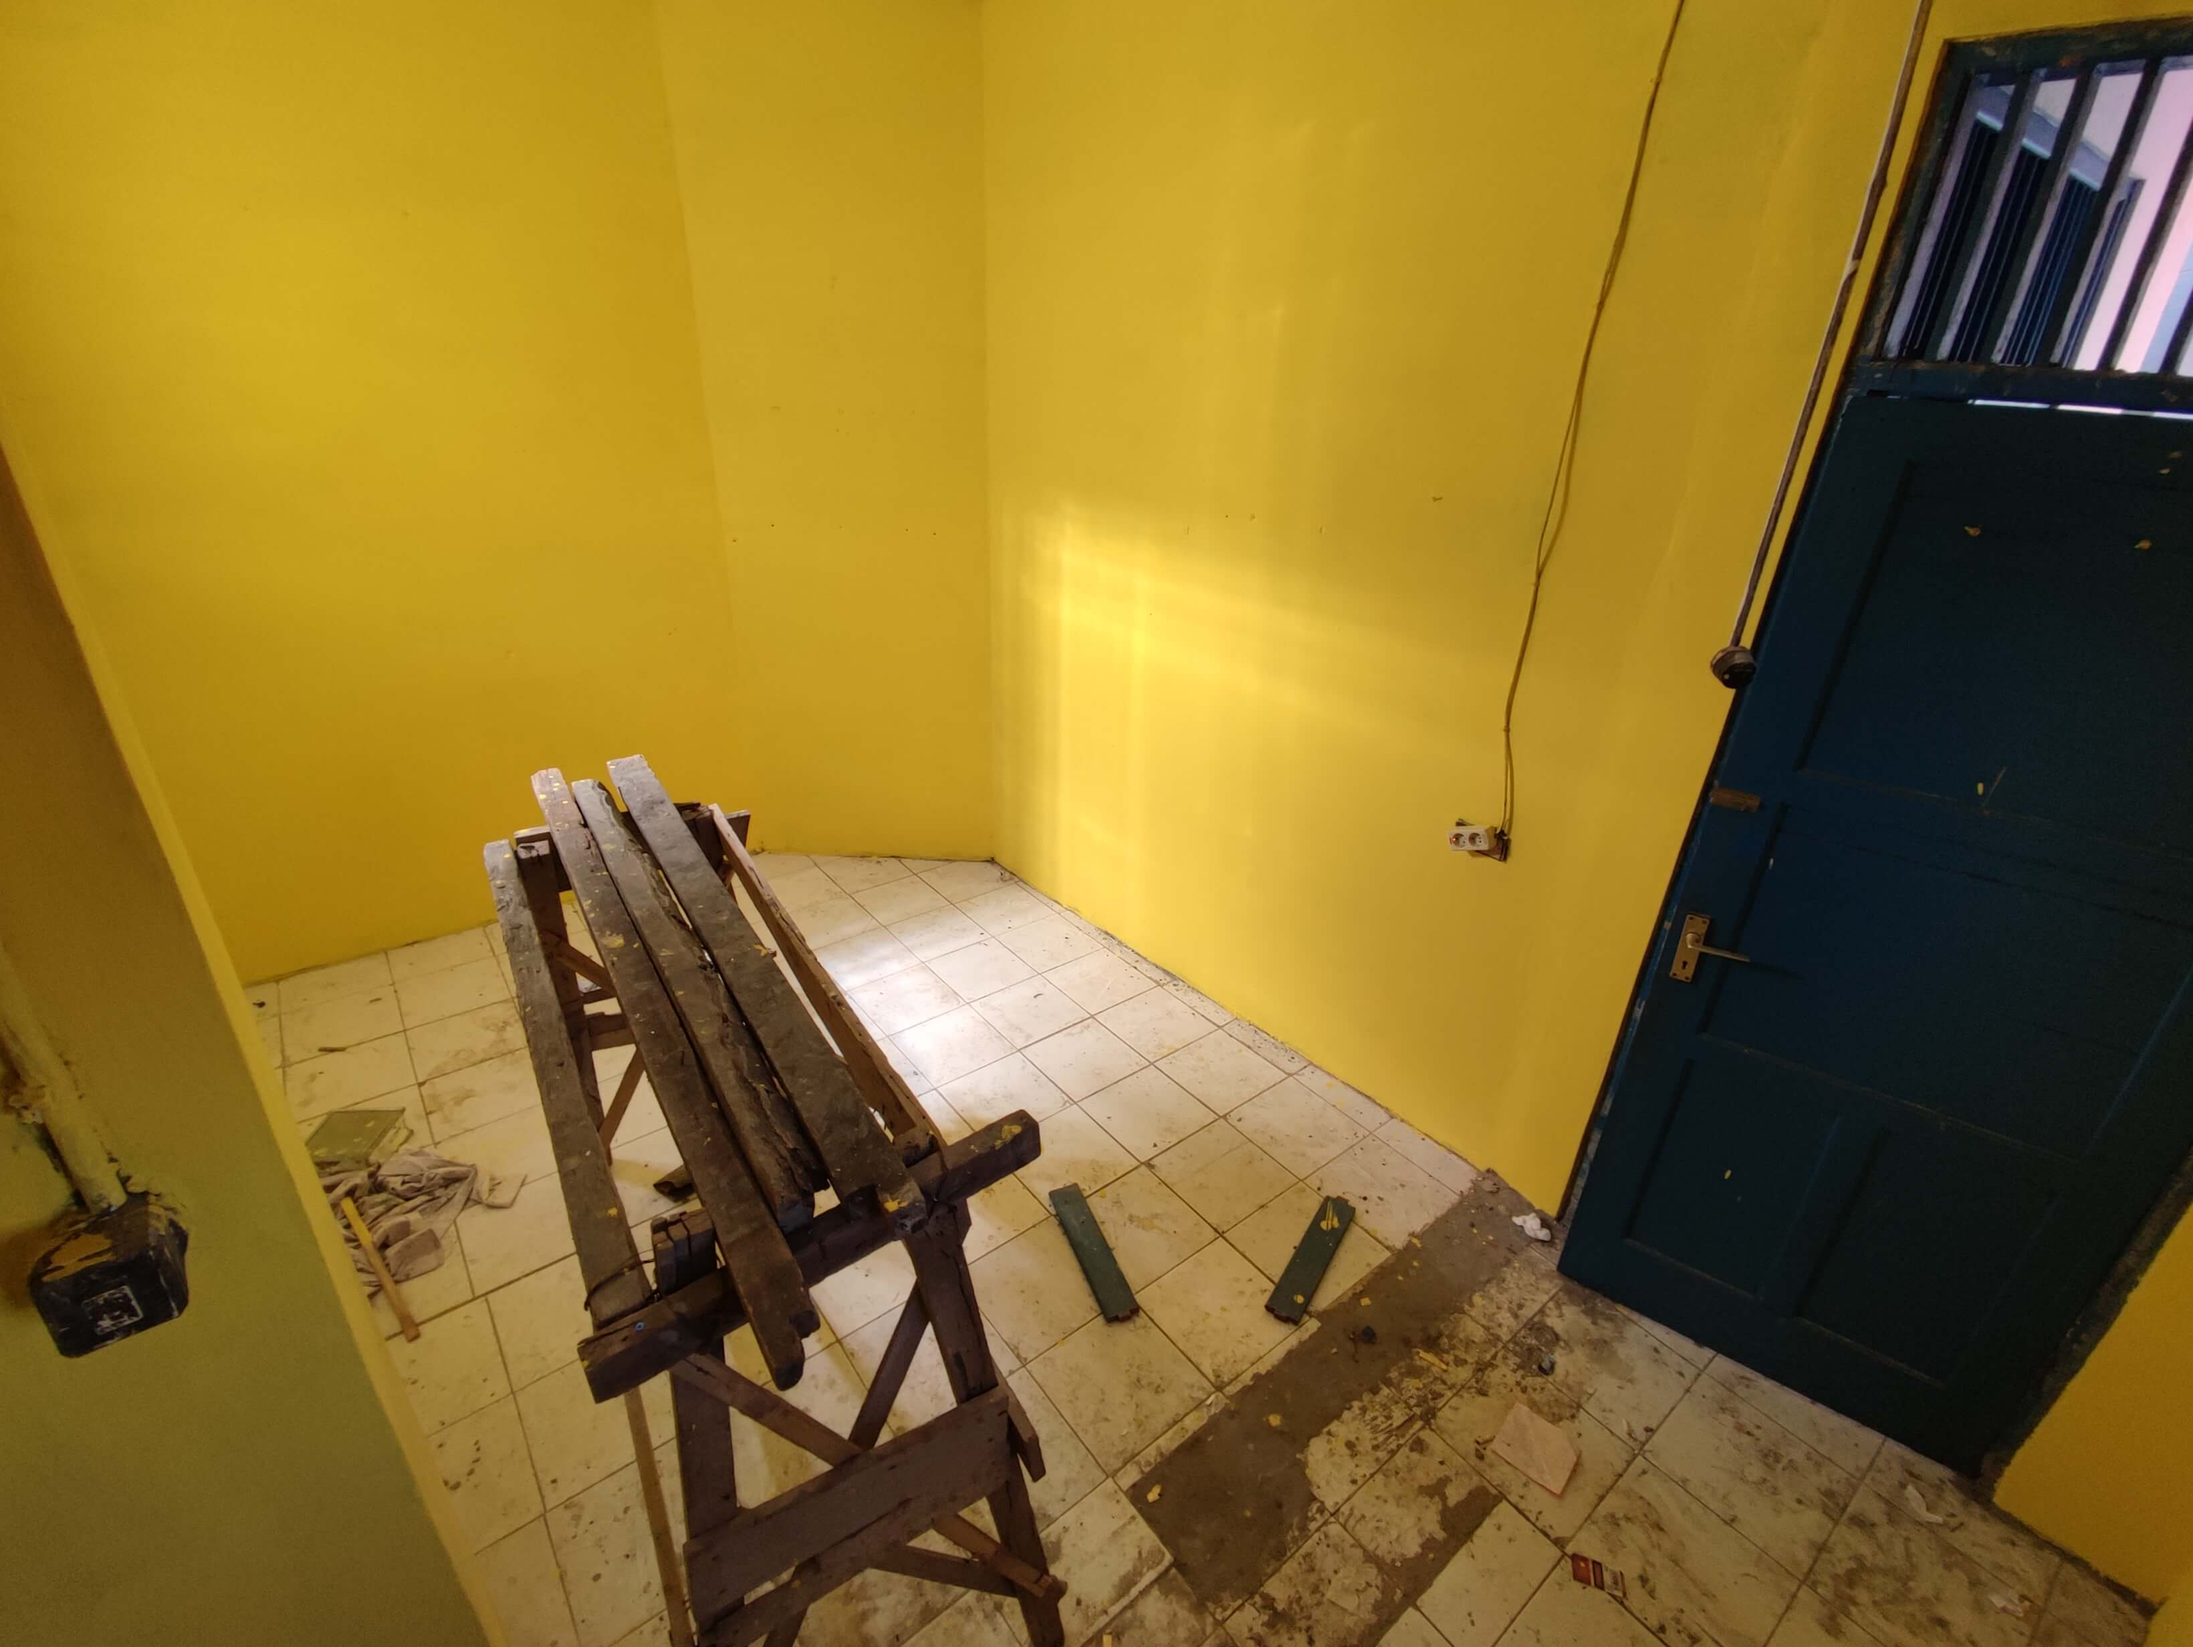
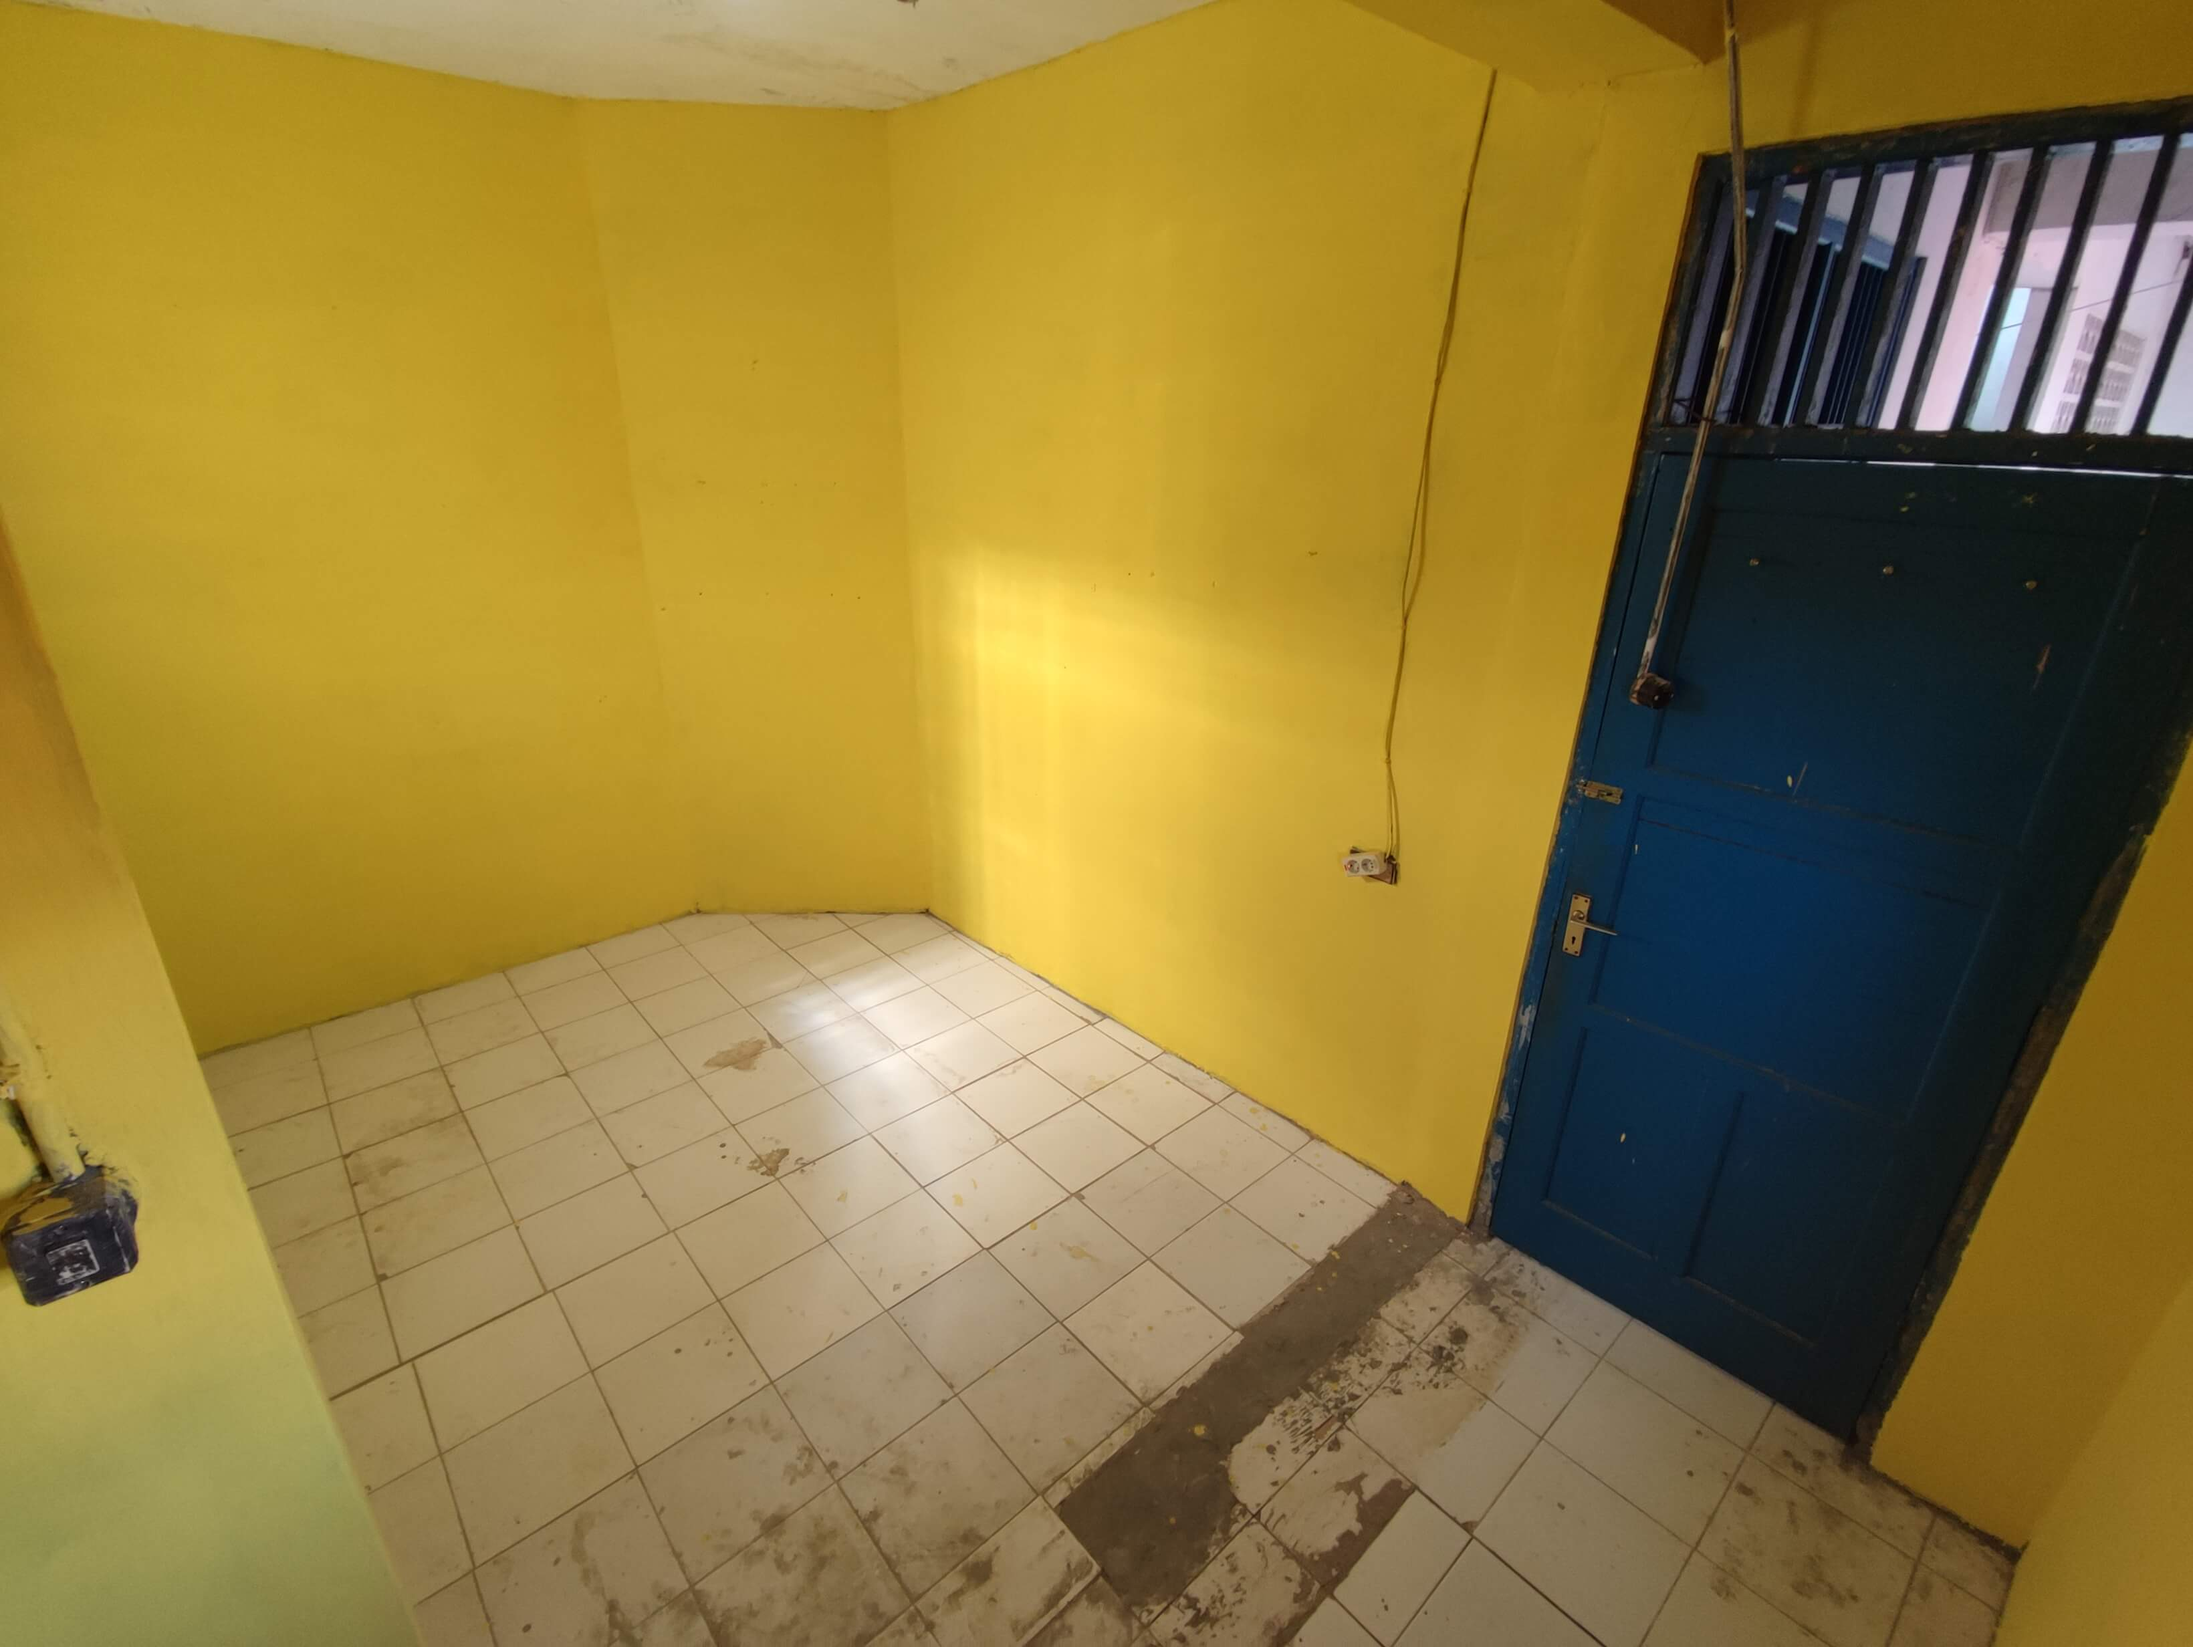
update B1, add images to Mezzanine 1

diff --git a/Mezzanine/1.html b/Mezzanine/1.html
@@ -11,7 +11,7 @@
     <!-- <meta property="og:description" content="Deskripsi Mezzanine 1"> -->
     <meta property="og:image" content="https://koskepuh.category.id/Mezzanine/assets/M1_entrance.jpg">
     <meta property="og:image" content="https://koskepuh.category.id/Mezzanine/assets/M1_main_1.jpg">
-    <meta property="og:image" content="https://koskepuh.category.id/Mezzanine/assets/M1_mezz.jpg">
+    <meta property="og:image" content="https://koskepuh.category.id/Mezzanine/assets/M1_loft.jpg">
     <meta property="og:image" content="https://koskepuh.category.id/Mezzanine/assets/M1_main_2.jpg">
     <meta property="og:url" content="https://koskepuh.category.id/">
     <meta property="og:type" content="website">
@@ -26,15 +26,20 @@
             <li>AC 0,5 PK</li>
             <li>Listrik Token 2200VA</li>
         </ul>
-        Ukuran Kamar : ± (Menyusul)
-        <br><br>
-        Terakhir diperbarui : 26 Juli 2023
+        Ukuran Ruang Bawah : ± 3 x 3,3 meter <br>
+        Ukuran Ruang Atas : ± 3 x 3 meter <br>
+        Ukuran Ruang Balkon : ± 3 x 1,1 meter <br>
+        <br>
+        Terakhir diperbarui : 27 Juli 2023
     </p>
     <img src="./assets/M1_entrance.jpg" width="100%" height="auto" max-width="800px">
     <img src="./assets/M1_main_1.jpg" width="100%" height="auto" max-width="800px">
     <img src="./assets/M1_main_2.jpg" width="100%" height="auto" max-width="800px">
-    <img src="./assets/M1_mezz.jpg" width="100%" height="auto" max-width="800px">
+    <img src="./assets/M1_main_3.jpg" width="100%" height="auto" max-width="800px">
+    <img src="./assets/M1_loft.jpg" width="100%" height="auto" max-width="800px">
+    <img src="./assets/M1_balcony.jpg" width="100%" height="auto" max-width="800px">
     <img src="./assets/M1_bathroom.jpg" width="100%" height="auto" max-width="800px">
+    <img src="./assets/M1_facade.jpg" width="100%" height="auto" max-width="800px">
     <img src="./assets/M1_carport.jpg" width="100%" height="auto" max-width="800px">
     <div class="whatsapp-float">
         <a href="https://wa.me/628886892062?text=Apakah%20Mezzanine%201%20masih%20kosong%3F" target="_blank">

diff --git a/B/1.html b/B/1.html
@@ -10,8 +10,7 @@
     <meta property="og:title" content="Kamar B1">
     <!-- <meta property="og:description" content="Deskripsi Kamar B1"> -->
     <meta property="og:image" content="https://koskepuh.category.id/B/assets/1_front.jpg">
-    <meta property="og:image" content="https://koskepuh.category.id/B/assets/1_back_a.jpg">
-    <meta property="og:image" content="https://koskepuh.category.id/B/assets/1_back_b.jpg">
+    <meta property="og:image" content="https://koskepuh.category.id/B/assets/1_back.jpg">
     <meta property="og:image" content="https://koskepuh.category.id/B/assets/1_entry.jpg">
     <meta property="og:url" content="https://koskepuh.category.id/">
     <meta property="og:type" content="website">
@@ -27,12 +26,11 @@
         </ul>
         Ukuran Kamar : ± 2,2 x 4,2 meter
         <br><br>
-        Terakhir diperbarui : 26 Juli 2023
+        Terakhir diperbarui : 27 Juli 2023
     </p>
     <img src="./assets/1_entry.jpg" width="100%" height="auto" max-width="800px">
     <img src="./assets/1_front.jpg" width="100%" height="auto" max-width="800px">
-    <img src="./assets/1_back_a.jpg" width="100%" height="auto" max-width="800px">
-    <img src="./assets/1_back_b.jpg" width="100%" height="auto" max-width="800px">
+    <img src="./assets/1_back.jpg" width="100%" height="auto" max-width="800px">
     <div class="whatsapp-float">
         <a href="https://wa.me/628886892062?text=Apakah%20Kamar%20B1%20masih%20kosong%3F" target="_blank">
             <i class="fab fa-whatsapp"></i>
